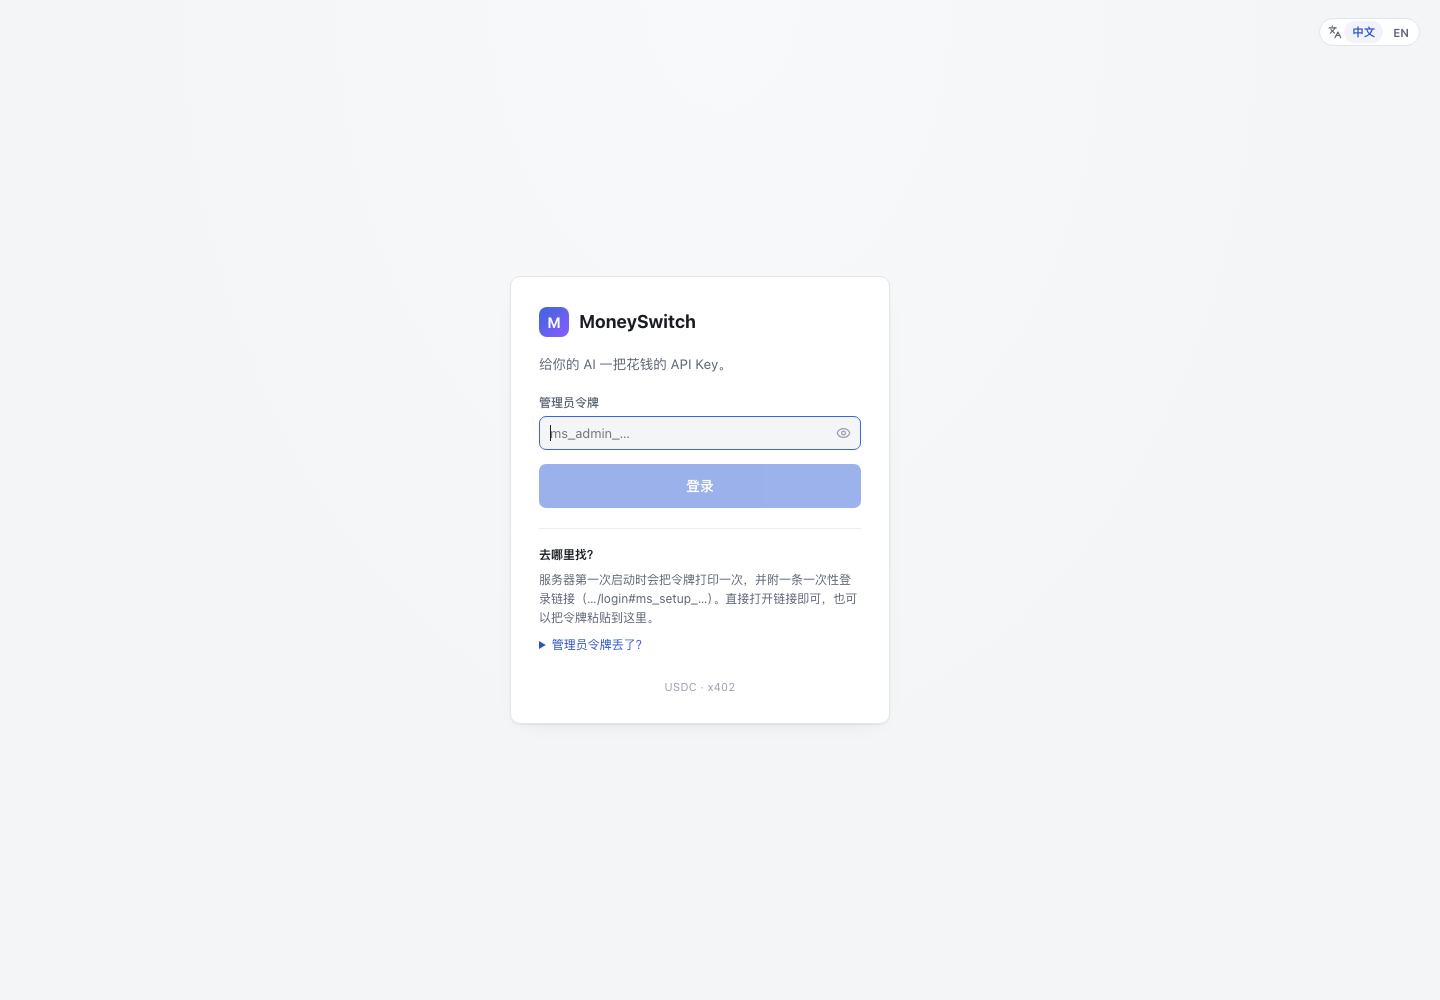
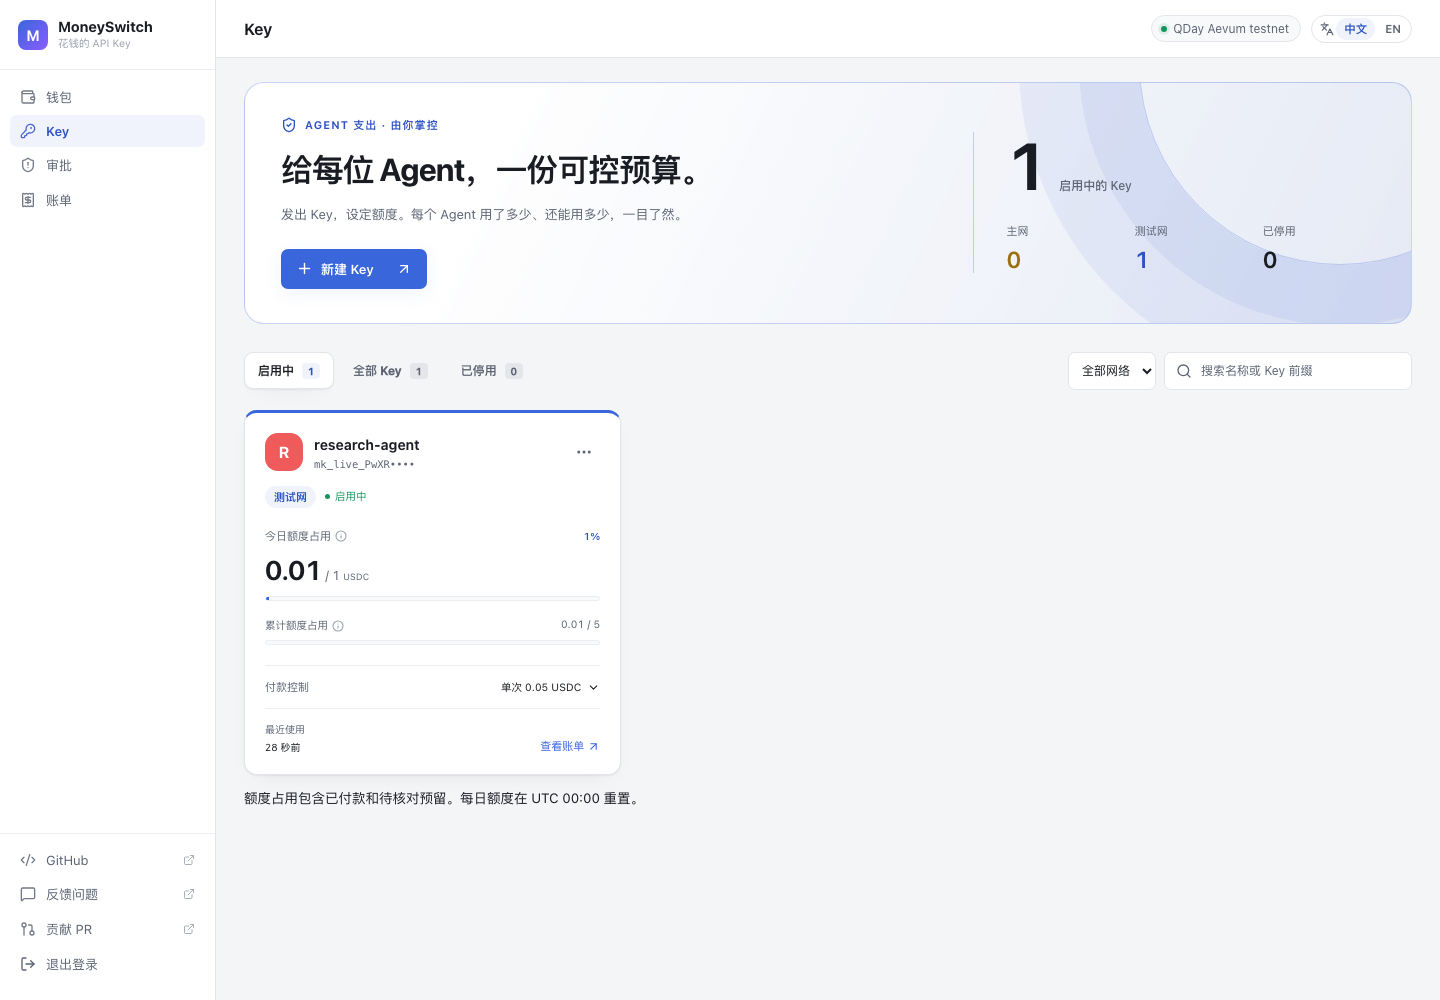
docs(qday): the product's own dashboard, on QDay (screenshots from a fork)
The submission claimed no UI existed; it does — apps/dashboard is the same dashboard used for the
Monad and Solana demos (moneyswitch.dev is the static marketing site in site/). qday-fork-ui-shots.sh
brings the dashboard up against an anvil fork of QDay with a funded wallet, issues a budgeted key, makes
a real 0.01 tUSD8 payment and captures the Keys page (daily/cumulative usage) and the Bills page (the
payment with its network badge) through the DevTools Protocol — separate --screenshot invocations fall
back to the login page because the admin token lives in sessionStorage.

diff --git a/docs/qday/submission.md b/docs/qday/submission.md
@@ -63,7 +63,7 @@ Machine-checkable ledger with the read-only command for each claim: [`docs/qday/
 
 | Criterion (weight) | Evidence |
 |---|---|
-| User experience & presentation (15) | One command runs the whole flow; the demo video (36.8 s) shows the 402 quote, the signature, the settlement and the explorer page; the product path shows a key with a 0.01 per-request cap, and its history row (`status=settled` + tx hash) is the receipt the owner sees. |
+| User experience & presentation (15) | The product has a real dashboard — the same one used for the Monad/Solana demos (`apps/dashboard`, served by the server, marketing site at moneyswitch.dev). With QDay enabled it shows the chain badge, the wallet's tUSD8, the key's daily/cumulative usage and the bill with its on-chain transaction: [`media/dashboard-keys.png`](media/dashboard-keys.png), [`media/dashboard-bills.png`](media/dashboard-bills.png), [`media/dashboard-wallet.png`](media/dashboard-wallet.png). The 36.8 s video walks the same flow from the terminal side. |
 | Demo clear & well structured (10) | [`media/demo-qday-final.mp4`](media/demo-qday-final.mp4) — act 1 product (`/v1/fetch`), act 2 straight x402 through the contract, plus a screenshot of the real transaction page. Reproduce with `bash packages/x402/scripts/qday-run-all.sh`. |
 | Comprehensive documentation (10) | [`README.md`](README.md) (on-chain facts, four test layers, human-only faucet steps), [`live-runbook.md`](live-runbook.md), [`evidence.md`](evidence.md), [`contracts/README.md`](../../contracts/README.md) (bytecode-check recipe, 9 gotchas). |
 | Innovation & originality (20) | Budgeted agent key + human approval line + on-chain atomic receiver are combined: the agent never holds a key, the owner keeps revocation, and the replay/business-double-charge case is handled on-chain (`OrderAlreadyPaid`). |

diff --git a/docs/qday/README.md b/docs/qday/README.md
@@ -79,6 +79,19 @@ on-chain       : block 2795285, status success, logs 2
 ✔ L1 PASS
 ```
 
+## 3.4 产品界面（dashboard）怎么截图
+
+产品自带 WebUI（`apps/dashboard`，就是 Monad/Solana 演示用的那个，官网 <https://moneyswitch.dev> 是 `site/` 里的静态站）。
+QDay 下的界面证据用 fork 跑，不花测试网的钱：
+
+```bash
+bash packages/x402/scripts/qday-fork-ui-shots.sh   # → docs/qday/media/dashboard-{wallet,keys,bills}.png
+```
+
+它起 anvil fork → 部署收款合约 → 用 fork 上的真实大户给 MoneySwitch 钱包打 50 tUSD8 → 发一把带额度的 Key →
+真正付一笔 0.01 tUSD8 → 用 DevTools Protocol 在**同一个标签页**里截图（dashboard 的 admin token 存在
+`sessionStorage`，每次新开 chrome 的 `--screenshot` 都会掉回登录页）。
+
 ## 3.5 demo 视频怎么产出
 
 不需要录屏权限：`qday-capture-fork.sh` 把一次真实运行捕获成文本（`#> ` 行是命令），`render-demo-video.py` 渲染成 MP4。
